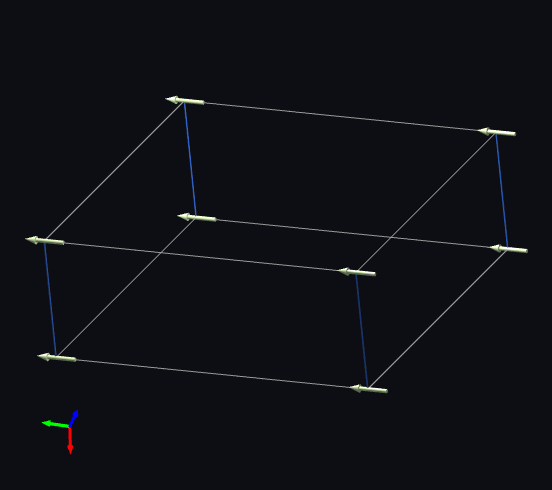
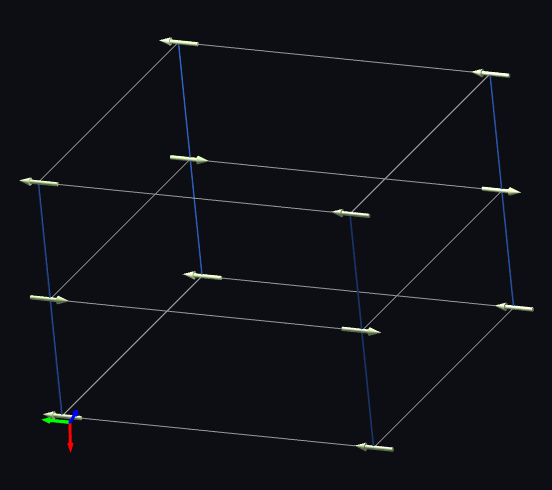
More tutorial stuff

diff --git a/examples/tutorials/tutorial_inputs/ferromagnetic_chain.py b/examples/tutorials/tutorial_inputs/ferromagnetic_chain.py
@@ -31,14 +31,14 @@ only_site = LatticeSite(1/2, 1/2, 1/2, 0,0,1, name="X")
 # This is because we have chosen a 1x1x1 unit cell, which results in more symmetries than P1 specifies.
 # It is not of any consequence.
 ## capture-stderr
-s = Structure([only_site], unit_cell=unit_cell)
+structure = Structure([only_site], unit_cell=unit_cell)
 ## end-capture-stderr
 
 # We can look at the structure using the viewer, we'll use the `copies` parameter to show five copies in $x$ direction
 ## skip
-view(s)
+view(structure)
 ## image: ferromagnet_structure.png
-## snapshot(s, "ferromagnet_structure.png") #, copies=(5,1,1))
+## snapshot(structure, "ferromagnet_structure.png", view_point=(0,-6,-1), copies=(5,1,1))
 
 # We now come to defining the exchanges, which we will need as a list.
 # There are various exchange classes that we can use.
@@ -71,13 +71,13 @@ exchanges = generate_exchanges(sites=[only_site],
 # Next we construct the `Hamiltonian` object, this contains the magnetic structure (`Structure`)
 # and a list of exchanges. It is also possible to specify single ion anisotropies here.
 
-hamiltonian = Hamiltonian(s, exchanges)
+hamiltonian = Hamiltonian(structure, exchanges)
 
-# We can now see the exchanges in the viewer
+# We can now see the exchanges in the viewer by viewing the hamiltonian object
 ## skip
-view(s)
-## image: ferromagnet_structure.png
-## snapshot(s, "ferromagnet_structure.png", ) #, copies=(5,1,1))
+view(hamiltonian, copies=(5,1,1))
+## image: ferromagnet_hamiltonian.png
+## snapshot(hamiltonian, "ferromagnet_hamiltonian.png", view_point=(0,-6,-1), copies=(5,1,1))
 
 # To make a spaghetti plot we need to define a path though reciprocal space,
 # which we define here in lattice coordinates.

diff --git a/examples/tutorials/tutorial_outputs/ferromagnetic_chain/ferromagnetic_chain.py b/examples/tutorials/tutorial_outputs/ferromagnetic_chain/ferromagnetic_chain.py
@@ -26,10 +26,10 @@ only_site = LatticeSite(1/2, 1/2, 1/2, 0,0,1, name="X")
 # Note that in this example, we will see a warning about the choice of unit cell.
 # This is because we have chosen a 1x1x1 unit cell, which results in more symmetries than P1 specifies.
 # It is not of any consequence.
-s = Structure([only_site], unit_cell=unit_cell)
+structure = Structure([only_site], unit_cell=unit_cell)
 
 # We can look at the structure using the viewer, we'll use the `copies` parameter to show five copies in $x$ direction
-view(s)
+view(structure)
 
 # We now come to defining the exchanges, which we will need as a list.
 # There are various exchange classes that we can use.
@@ -62,10 +62,10 @@ exchanges = generate_exchanges(sites=[only_site],
 # Next we construct the `Hamiltonian` object, this contains the magnetic structure (`Structure`)
 # and a list of exchanges. It is also possible to specify single ion anisotropies here.
 
-hamiltonian = Hamiltonian(s, exchanges)
+hamiltonian = Hamiltonian(structure, exchanges)
 
-# We can now see the exchanges in the viewer
-view(s)
+# We can now see the exchanges in the viewer by viewing the hamiltonian object
+view(hamiltonian, copies=(5,1,1))
 
 # To make a spaghetti plot we need to define a path though reciprocal space,
 # which we define here in lattice coordinates.

diff --git a/examples/tutorials/tutorial_outputs/ferromagnetic_chain/artifacts.py b/examples/tutorials/tutorial_outputs/ferromagnetic_chain/artifacts.py
@@ -10,9 +10,9 @@ from pyspinw import *
 unit_cell = UnitCell(1,1,1)
 only_site = LatticeSite(1/2, 1/2, 1/2, 0,0,1, name="X")
 print("#####:1", file=sys.stderr)
-s = Structure([only_site], unit_cell=unit_cell)
+structure = Structure([only_site], unit_cell=unit_cell)
 print("######:1", file=sys.stderr)
-snapshot(s, "ferromagnet_structure.png") #, copies=(5,1,1))
+snapshot(structure, "ferromagnet_structure.png", view_point=(0,-6,-1), copies=(5,1,1))
 exchanges = [HeisenbergExchange(only_site, only_site, cell_offset=(1,0,0), j=-1)]
 exchanges = generate_exchanges(sites=[only_site],
                                unit_cell=unit_cell,
@@ -20,8 +20,8 @@ exchanges = generate_exchanges(sites=[only_site],
                                exchange_type=HeisenbergExchange,
                                j=-1,
                                direction_filter=filter([1,0,0]))
-hamiltonian = Hamiltonian(s, exchanges)
-snapshot(s, "ferromagnet_structure.png") #, copies=(5,1,1))
+hamiltonian = Hamiltonian(structure, exchanges)
+snapshot(hamiltonian, "ferromagnet_hamiltonian.png", view_point=(0,-6,-1), copies=(5,1,1))
 path = Path([[0,0,0], [1,0,0]])
 fig = hamiltonian.spaghetti_plot(path, dE=0.4, show=False)
 fig.savefig("spaghetti_plot.png")

diff --git a/examples/tutorials/generate_tutorial_files.py b/examples/tutorials/generate_tutorial_files.py
@@ -1,14 +1,11 @@
-from convert_tutorial_files import tutorial_input_dir, run as convert
+from convert_tutorial_files import run as convert, tutorial_output_dir
+from tutorial_list import filenames, text
 
-filenames = []
-text = []
-with open("tutorial_list.txt", 'r') as file:
-    for line in file:
-        parts = line.split(" ", maxsplit=1)
-        filenames.append(parts[0]+".py")
-        if len(parts) > 1:
-            text.append(parts[1])
-        else:
-            text.append([])
+with open(tutorial_output_dir / "index.md", 'w') as file:
+    file.write("# Tutorials\n\n")
+
+    for index, (filename, text) in enumerate(zip(filenames, text)):
+
+        file.write(f" - [Tutorial {index+1}]({filename}/tutorial) {text}")
 
 convert(filenames)

diff --git a/examples/tutorials/tutorial_list.py b/examples/tutorials/tutorial_list.py
@@ -1,0 +1,12 @@
+""" Load in the tutorial files """
+
+filenames = []
+text = []
+with open("tutorial_list.txt", 'r') as file:
+    for line in file:
+        parts = line.split(" ", maxsplit=1)
+        filenames.append(parts[0]+".py")
+        if len(parts) > 1:
+            text.append(parts[1])
+        else:
+            text.append([])

diff --git a/examples/tutorials/tutorial_outputs/ferromagnetic_chain/tutorial.md b/examples/tutorials/tutorial_outputs/ferromagnetic_chain/tutorial.md
@@ -38,7 +38,7 @@ only_site = LatticeSite(1/2, 1/2, 1/2, 0,0,1, name="X")
  It is not of any consequence.
 
 ```python
-s = Structure([only_site], unit_cell=unit_cell)
+structure = Structure([only_site], unit_cell=unit_cell)
 ```
 
 ```text
@@ -83,11 +83,11 @@ exchanges = generate_exchanges(sites=[only_site],
  and a list of exchanges. It is also possible to specify single ion anisotropies here.
 
 ```python
-hamiltonian = Hamiltonian(s, exchanges)
+hamiltonian = Hamiltonian(structure, exchanges)
 ```
- We can now see the exchanges in the viewer
+ We can now see the exchanges in the viewer by viewing the hamiltonian object
 
-![]( ferromagnet_structure.png
+![]( ferromagnet_hamiltonian.png
 )
 
  To make a spaghetti plot we need to define a path though reciprocal space,
